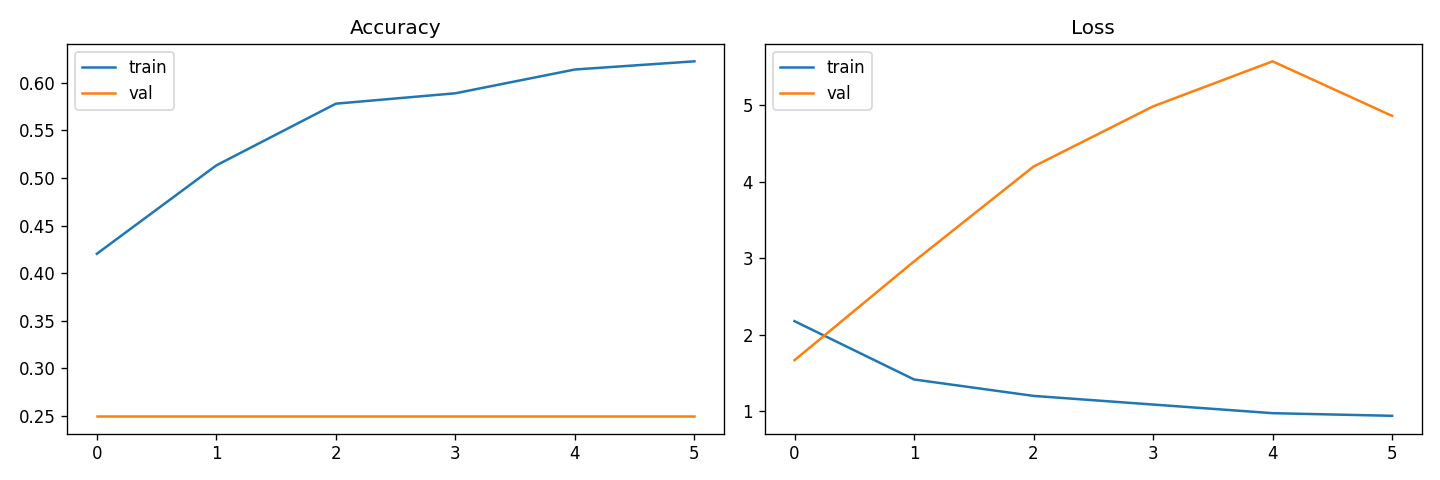
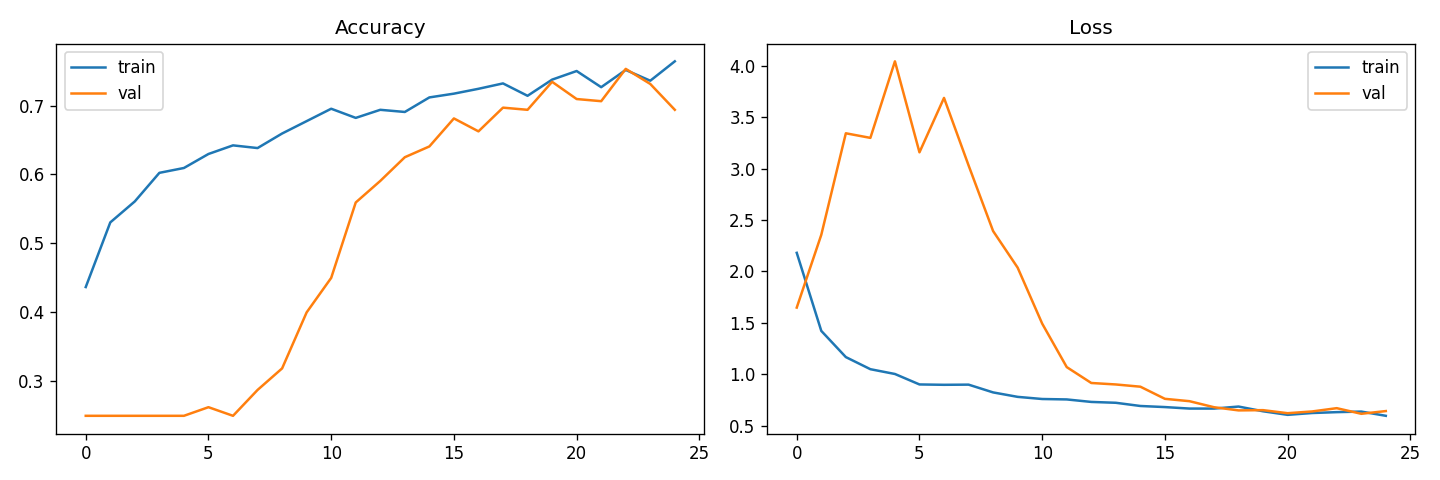
Updated dataset page text

diff --git a/templates/dataset.html b/templates/dataset.html
@@ -19,7 +19,7 @@
 <section class="upload-section">
   <h2>📂 Dataset Manager</h2>
   <p style="color:#b8bdd1; max-width:700px; margin:0 auto 2rem;">
-    Upload your MRI dataset as a <strong>.zip file</strong>. ZIP me class folders hone chahiye:
+    <strong>Upload MRI dataset in ZIP format with class folders.</strong>
     <code>glioma/</code>, <code>meningioma/</code>, <code>notumor/</code>, <code>pituitary/</code>
   </p>
 